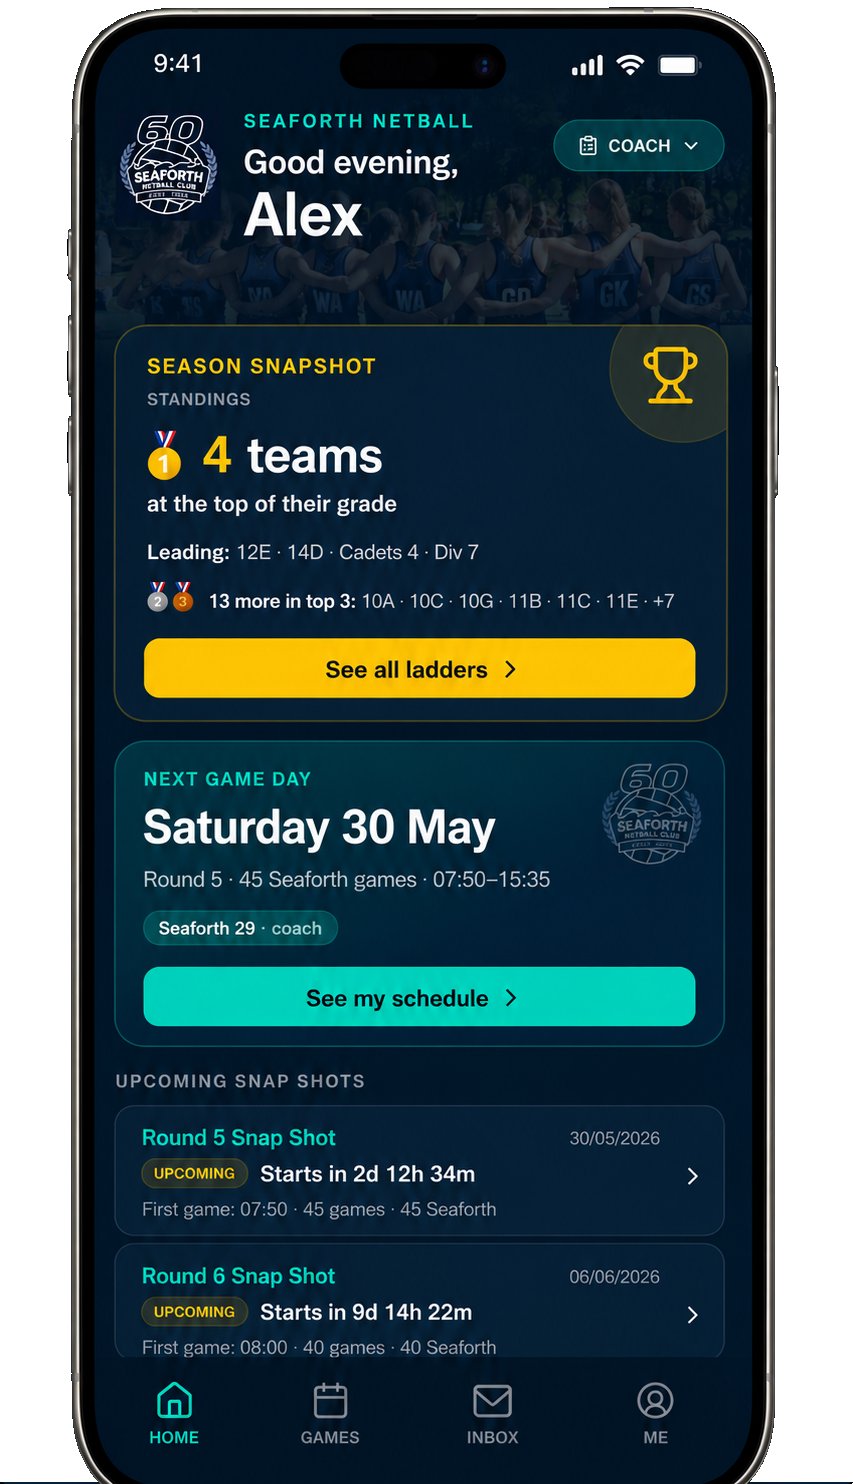
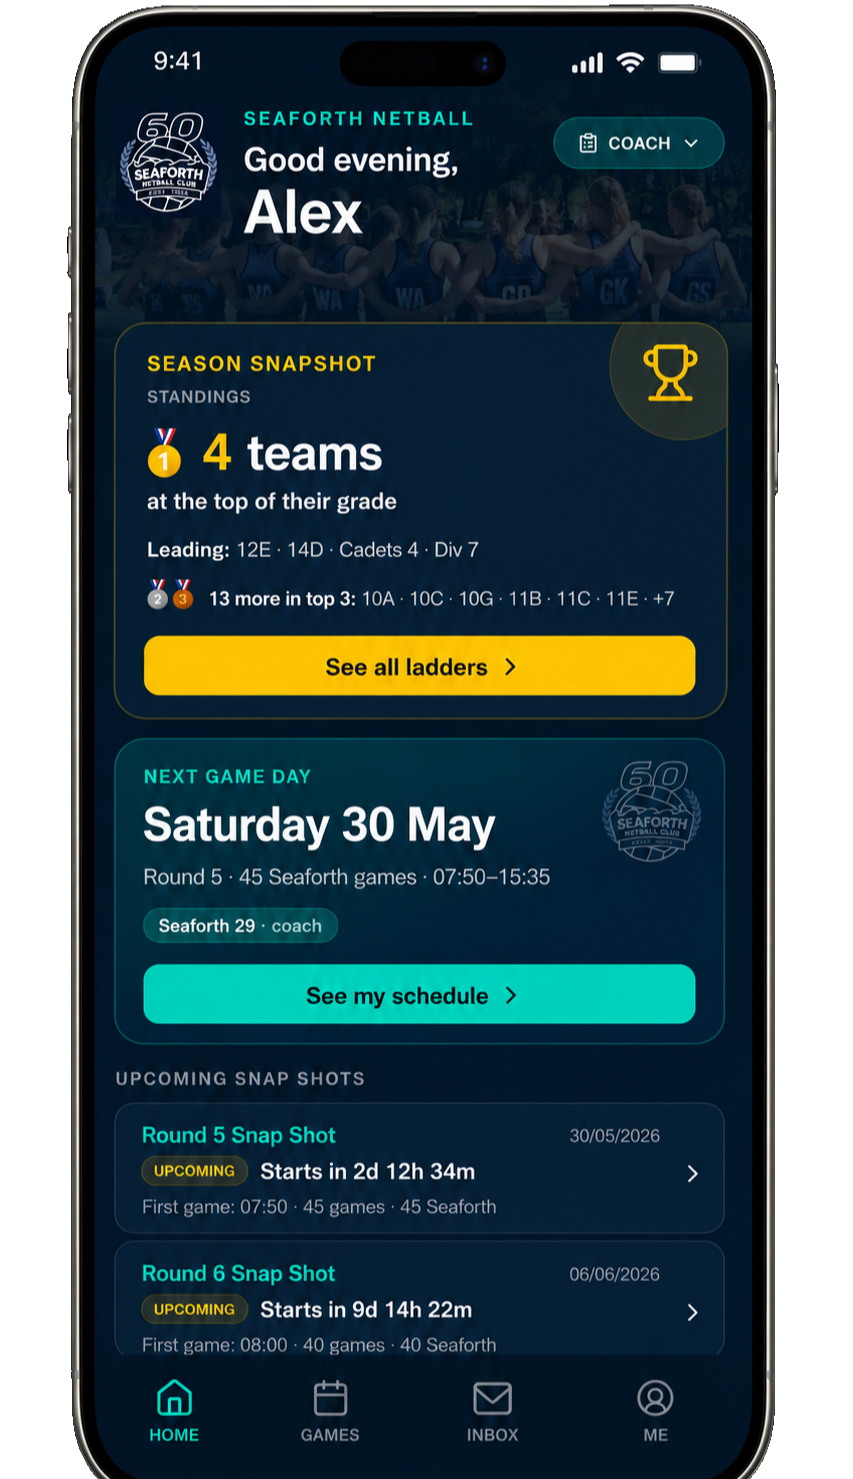
Action website feedback from SP_Website_12.08.2026 deck
- Align nav logo with hero headline (shared 1180px container)
- Rename About nav item to Apps and point it at the mobile apps section
- Make each section fill one screen height (min-h 100vh minus nav)
- Widen hero photo panel and reduce crop so the image reads less zoomed
- Features table: highlight row follows the cursor instead of static
- Crop baked-in hairline off the bottom of app-club-white.png
- Contact: new intro copy, teams-count field label, teal Submit button
- Footer links now point at real sections instead of dead anchors
- Contact email relabels the count as Teams

diff --git a/app/page.tsx b/app/page.tsx
@@ -39,7 +39,7 @@ function Wordmark({ height = 44 }: { height?: number }) {
 const navLinks = [
   ["Features", "#features"],
   ["Solutions", "#solutions"],
-  ["About", "#about"],
+  ["Apps", "#apps"],
   ["Contact", "#contact"],
 ]
 
@@ -74,10 +74,10 @@ function Navbar() {
 function Hero() {
   return (
     <section id="top" className="relative overflow-hidden bg-[#0e1a30] pt-[72px]">
-      <div className="grid items-stretch lg:min-h-[640px] lg:grid-cols-[46%_54%]">
-        {/* copy */}
-        <div className="flex w-full max-w-[640px] flex-col justify-center justify-self-end px-7 py-16 lg:py-[70px]">
-          <div className="lg:pl-7">
+      <div className="relative z-10 mx-auto flex max-w-[1180px] items-center px-7 py-16 lg:min-h-[calc(100vh-72px)] lg:py-[70px]">
+        {/* copy — shares the nav's container so the headline lines up with the logo */}
+        <div className="lg:max-w-[560px]">
+          <div>
             <h1
               className="font-bold text-white"
               style={{
@@ -108,21 +108,21 @@ function Hero() {
             </div>
           </div>
         </div>
+      </div>
 
-        {/* photo — angled left edge */}
-        <div
-          className="relative min-h-[360px] lg:min-h-0"
-          style={{ clipPath: "polygon(14% 0, 100% 0, 100% 100%, 0 100%)" }}
-        >
-          <Image
-            src="/hero-netball.png"
-            alt="Junior netball game on an indoor court"
-            fill
-            priority
-            sizes="(max-width: 1024px) 100vw, 54vw"
-            className="object-cover"
-          />
-        </div>
+      {/* photo — angled left edge, pinned right on desktop */}
+      <div
+        className="relative min-h-[360px] lg:absolute lg:bottom-0 lg:right-0 lg:top-[72px] lg:min-h-0 lg:w-[56%]"
+        style={{ clipPath: "polygon(14% 0, 100% 0, 100% 100%, 0 100%)" }}
+      >
+        <Image
+          src="/hero-netball.png"
+          alt="Junior netball game on an indoor court"
+          fill
+          priority
+          sizes="(max-width: 1024px) 100vw, 56vw"
+          className="object-cover"
+        />
       </div>
     </section>
   )
@@ -131,8 +131,6 @@ function Hero() {
 /* ──────────────────────────────────────────────────────────
    Features / ROI table
    ────────────────────────────────────────────────────────── */
-const HIGHLIGHT = "Player Grading"
-
 const roster = [
   {
     task: "Umpire & ref rostering",
@@ -182,7 +180,10 @@ const COLS = "grid-cols-[1.1fr_1.35fr_1.55fr_1fr]"
 
 function FeaturesTable() {
   return (
-    <section id="features" className="relative overflow-hidden bg-white px-7 py-[92px]">
+    <section
+      id="features"
+      className="relative flex min-h-[calc(100vh-72px)] scroll-mt-[72px] items-center overflow-hidden bg-white px-7 py-16"
+    >
       {/* decorative teal blob */}
       <div
         className="pointer-events-none absolute -right-[120px] -top-[140px] h-[620px] w-[620px] rounded-full"
@@ -192,7 +193,7 @@ function FeaturesTable() {
         }}
         aria-hidden
       />
-      <div className="relative mx-auto max-w-[1120px]">
+      <div className="relative mx-auto w-full max-w-[1120px]">
         <p className="text-[13px] font-semibold uppercase tracking-[0.14em] text-[#10b3a3]">
           Features
         </p>
@@ -221,33 +222,26 @@ function FeaturesTable() {
                 </span>
               ))}
             </div>
-            {/* rows */}
-            {roster.map((r) => {
-              const highlighted = r.task === HIGHLIGHT
-              return (
-                <div
-                  key={r.task}
-                  className={`grid ${COLS} items-center gap-5 border-b border-[#16233d]/[0.06] py-[19px] pl-6 pr-7`}
-                  style={{
-                    background: highlighted ? "#eaf7f3" : "transparent",
-                    borderLeft: `4px solid ${highlighted ? TEAL : "transparent"}`,
-                  }}
-                >
-                  <span className="text-[15.5px] font-semibold text-[#16233d]">{r.task}</span>
-                  <span className="text-[14px] leading-[1.45] text-[#8a95a3]">{r.old}</span>
-                  <span className="flex items-baseline gap-[9px] text-[14px] leading-[1.45] text-[#3d4a5c]">
-                    <Check className="h-3.5 w-3.5 shrink-0 translate-y-0.5 text-[#10b3a3]" strokeWidth={3} />
-                    <span>{r.now}</span>
-                  </span>
-                  <span className="text-right text-[14px] font-semibold text-[#10b3a3]">{r.save}</span>
-                </div>
-              )
-            })}
+            {/* rows — highlight follows the cursor */}
+            {roster.map((r) => (
+              <div
+                key={r.task}
+                className={`grid ${COLS} items-center gap-5 border-b border-l-4 border-[#16233d]/[0.06] border-l-transparent py-3 pl-6 pr-7 transition-colors duration-150 hover:border-l-[#10b3a3] hover:bg-[#eaf7f3]`}
+              >
+                <span className="text-[15.5px] font-semibold text-[#16233d]">{r.task}</span>
+                <span className="text-[14px] leading-[1.45] text-[#8a95a3]">{r.old}</span>
+                <span className="flex items-baseline gap-[9px] text-[14px] leading-[1.45] text-[#3d4a5c]">
+                  <Check className="h-3.5 w-3.5 shrink-0 translate-y-0.5 text-[#10b3a3]" strokeWidth={3} />
+                  <span>{r.now}</span>
+                </span>
+                <span className="text-right text-[14px] font-semibold text-[#10b3a3]">{r.save}</span>
+              </div>
+            ))}
           </div>
         </div>
 
         {/* add-it-up band */}
-        <div className="mt-[26px] flex flex-wrap items-center justify-between gap-6 rounded-xl bg-[#16233d] px-8 py-[26px]">
+        <div className="mt-5 flex flex-wrap items-center justify-between gap-6 rounded-xl bg-[#16233d] px-8 py-5">
           <p
             className="font-semibold text-white"
             style={{ fontSize: "clamp(18px,2vw,22px)", letterSpacing: "-0.01em" }}
@@ -315,8 +309,11 @@ const sports = [
 
 function Solutions() {
   return (
-    <section id="solutions" className="border-t border-white/[0.06] bg-[#121f38] px-7 py-[92px]">
-      <div className="mx-auto max-w-[1120px]">
+    <section
+      id="solutions"
+      className="flex min-h-[calc(100vh-72px)] scroll-mt-[72px] items-center border-t border-white/[0.06] bg-[#121f38] px-7 py-16"
+    >
+      <div className="mx-auto w-full max-w-[1120px]">
         <p className="text-[13px] font-semibold uppercase tracking-[0.14em] text-[#2dd4bf]">
           Solutions
         </p>
@@ -370,15 +367,18 @@ function Solutions() {
    About / Mobile apps — white, centered
    ────────────────────────────────────────────────────────── */
 const appScreens = [
-  { src: "/app-club-white.png", alt: "Club dashboard app screen", raised: false },
-  { src: "/app-lineup-white.png", alt: "Coach line-up builder app screen", raised: true },
-  { src: "/app-player-white.png", alt: "Player profile app screen", raised: false },
+  { src: "/app-club-white.png", alt: "Club dashboard app screen", height: 1479, raised: false },
+  { src: "/app-lineup-white.png", alt: "Coach line-up builder app screen", height: 1484, raised: true },
+  { src: "/app-player-white.png", alt: "Player profile app screen", height: 1484, raised: false },
 ]
 
 function MobileApps() {
   return (
-    <section id="about" className="overflow-hidden bg-white px-7 pb-[70px] pt-[92px]">
-      <div className="mx-auto max-w-[1120px] text-center">
+    <section
+      id="apps"
+      className="flex min-h-[calc(100vh-72px)] scroll-mt-[72px] items-center overflow-hidden bg-white px-7 py-16"
+    >
+      <div className="mx-auto w-full max-w-[1120px] text-center">
         <p className="text-[13px] font-semibold uppercase tracking-[0.14em] text-[#10b3a3]">
           Mobile apps
         </p>
@@ -394,14 +394,14 @@ function MobileApps() {
           on top of game day.
         </p>
 
-        <div className="mx-auto mt-[52px] grid max-w-[880px] grid-cols-3 items-end gap-6">
+        <div className="mx-auto mt-10 grid max-w-[820px] grid-cols-3 items-end gap-6">
           {appScreens.map((s) => (
             <div key={s.src} className={s.raised ? "mb-8" : ""}>
               <Image
                 src={s.src}
                 alt={s.alt}
                 width={853}
-                height={1484}
+                height={s.height}
                 sizes="(max-width: 880px) 33vw, 280px"
                 className="block h-auto w-full"
               />
@@ -418,8 +418,11 @@ function MobileApps() {
    ────────────────────────────────────────────────────────── */
 function Contact() {
   return (
-    <section id="contact" className="border-t border-white/[0.06] bg-[#121f38] px-7 py-[92px]">
-      <div className="mx-auto grid max-w-[1120px] items-start gap-12 lg:grid-cols-2 lg:gap-16">
+    <section
+      id="contact"
+      className="flex min-h-[calc(100vh-72px)] scroll-mt-[72px] items-center border-t border-white/[0.06] bg-[#121f38] px-7 py-16"
+    >
+      <div className="mx-auto grid w-full max-w-[1120px] items-start gap-12 lg:grid-cols-2 lg:gap-16">
         <div>
           <p className="text-[13px] font-semibold uppercase tracking-[0.14em] text-[#2dd4bf]">
             Contact
@@ -431,8 +434,7 @@ function Contact() {
             Tell us about your club
           </h2>
           <p className="mt-3.5 max-w-[420px] text-[16px] leading-[1.55] text-[#a5b3c7]">
-            We&apos;ll get back to you within a day with pricing for your club and a time to show you
-            around — no hard sell.
+            Submit your details and we&apos;ll get in touch to discuss further or arrange a demo.
           </p>
           <div className="mt-7 flex flex-col gap-3">
             <p className="text-[15.5px] text-[#e6edf7]">Sydney, Australia</p>
@@ -461,18 +463,30 @@ function Contact() {
 /* ──────────────────────────────────────────────────────────
    Footer — deep navy, link columns
    ────────────────────────────────────────────────────────── */
-const footCols = [
-  { head: "Product", links: ["Websites", "Mobile apps", "Fixtures & ladders", "Umpire management"] },
-  { head: "Platform", links: ["Teams & players", "Communications", "Reports", "Payments"] },
-  { head: "Company", links: ["About", "Pricing", "Contact"] },
-  { head: "Support", links: ["Help centre", "Onboarding", "Status", "Privacy"] },
+const footCols: { head: string; links: [string, string][] }[] = [
+  {
+    head: "Explore",
+    links: [
+      ["Features", "#features"],
+      ["Solutions", "#solutions"],
+      ["Apps", "#apps"],
+      ["Contact", "#contact"],
+    ],
+  },
+  {
+    head: "Get in touch",
+    links: [
+      ["rowan@sidelinepro.com.au", "mailto:rowan@sidelinepro.com.au"],
+      ["Book a demo", "#contact"],
+    ],
+  },
 ]
 
 function Footer() {
   return (
     <footer className="bg-[#0a1426] px-7 pb-[26px] pt-12">
       <div className="mx-auto max-w-[1120px]">
-        <div className="grid gap-6 border-b border-white/[0.12] pb-8 sm:grid-cols-2 lg:grid-cols-[1.6fr_1fr_1fr_1fr_1fr]">
+        <div className="grid gap-6 border-b border-white/[0.12] pb-8 sm:grid-cols-2 lg:grid-cols-[1.6fr_1fr_1fr]">
           <div>
             <Wordmark height={36} />
             <p className="mt-3 max-w-[230px] text-[13px] leading-[1.55] text-[#8fa0b8]">
@@ -482,13 +496,13 @@ function Footer() {
           {footCols.map((c) => (
             <div key={c.head}>
               <p className="mb-2.5 text-[12.5px] font-semibold text-white">{c.head}</p>
-              {c.links.map((l) => (
+              {c.links.map(([label, href]) => (
                 <a
-                  key={l}
-                  href="#contact"
+                  key={label}
+                  href={href}
                   className="mb-[7px] block text-[12.5px] text-[#8fa0b8] transition-colors hover:text-[#2dd4bf]"
                 >
-                  {l}
+                  {label}
                 </a>
               ))}
             </div>

diff --git a/components/contact-form.tsx b/components/contact-form.tsx
@@ -63,7 +63,7 @@ export function ContactForm() {
             id="name"
             name="name"
             required
-            className="w-full rounded-[10px] border border-black/15 bg-white px-4 py-3 text-[#1d1d1f] placeholder-[#86868b] transition-colors focus:border-[#BD8A2C] focus:outline-none focus:ring-1 focus:ring-[#BD8A2C]/30"
+            className="w-full rounded-[10px] border border-black/15 bg-white px-4 py-3 text-[#1d1d1f] placeholder-[#86868b] transition-colors focus:border-[#10b3a3] focus:outline-none focus:ring-1 focus:ring-[#10b3a3]/30"
             placeholder="Your name"
           />
         </div>
@@ -76,7 +76,7 @@ export function ContactForm() {
             id="club"
             name="club"
             required
-            className="w-full rounded-[10px] border border-black/15 bg-white px-4 py-3 text-[#1d1d1f] placeholder-[#86868b] transition-colors focus:border-[#BD8A2C] focus:outline-none focus:ring-1 focus:ring-[#BD8A2C]/30"
+            className="w-full rounded-[10px] border border-black/15 bg-white px-4 py-3 text-[#1d1d1f] placeholder-[#86868b] transition-colors focus:border-[#10b3a3] focus:outline-none focus:ring-1 focus:ring-[#10b3a3]/30"
             placeholder="Your club"
           />
         </div>
@@ -91,7 +91,7 @@ export function ContactForm() {
             id="email"
             name="email"
             required
-            className="w-full rounded-[10px] border border-black/15 bg-white px-4 py-3 text-[#1d1d1f] placeholder-[#86868b] transition-colors focus:border-[#BD8A2C] focus:outline-none focus:ring-1 focus:ring-[#BD8A2C]/30"
+            className="w-full rounded-[10px] border border-black/15 bg-white px-4 py-3 text-[#1d1d1f] placeholder-[#86868b] transition-colors focus:border-[#10b3a3] focus:outline-none focus:ring-1 focus:ring-[#10b3a3]/30"
             placeholder="you@club.com.au"
           />
         </div>
@@ -103,21 +103,21 @@ export function ContactForm() {
             type="tel"
             id="phone"
             name="phone"
-            className="w-full rounded-[10px] border border-black/15 bg-white px-4 py-3 text-[#1d1d1f] placeholder-[#86868b] transition-colors focus:border-[#BD8A2C] focus:outline-none focus:ring-1 focus:ring-[#BD8A2C]/30"
+            className="w-full rounded-[10px] border border-black/15 bg-white px-4 py-3 text-[#1d1d1f] placeholder-[#86868b] transition-colors focus:border-[#10b3a3] focus:outline-none focus:ring-1 focus:ring-[#10b3a3]/30"
             placeholder="04XX XXX XXX"
           />
         </div>
       </div>
       <div>
         <label htmlFor="players" className="mb-2 block text-sm font-medium text-[#1d1d1f]">
-          Approx. number of registered players
+          Number of teams in your club
         </label>
         <input
           type="text"
           id="players"
           name="players"
-          className="w-full rounded-[10px] border border-black/15 bg-white px-4 py-3 text-[#1d1d1f] placeholder-[#86868b] transition-colors focus:border-[#BD8A2C] focus:outline-none focus:ring-1 focus:ring-[#BD8A2C]/30"
-          placeholder="e.g. 250"
+          className="w-full rounded-[10px] border border-black/15 bg-white px-4 py-3 text-[#1d1d1f] placeholder-[#86868b] transition-colors focus:border-[#10b3a3] focus:outline-none focus:ring-1 focus:ring-[#10b3a3]/30"
+          placeholder="e.g. 20"
         />
       </div>
       <div>
@@ -128,16 +128,16 @@ export function ContactForm() {
           id="message"
           name="message"
           rows={4}
-          className="w-full resize-none rounded-[10px] border border-black/15 bg-white px-4 py-3 text-[#1d1d1f] placeholder-[#86868b] transition-colors focus:border-[#BD8A2C] focus:outline-none focus:ring-1 focus:ring-[#BD8A2C]/30"
+          className="w-full resize-none rounded-[10px] border border-black/15 bg-white px-4 py-3 text-[#1d1d1f] placeholder-[#86868b] transition-colors focus:border-[#10b3a3] focus:outline-none focus:ring-1 focus:ring-[#10b3a3]/30"
           placeholder="Tell us about your club's biggest challenges..."
         />
       </div>
       <button
         type="submit"
         disabled={isSubmitting}
-        className="mt-2 w-full rounded-full bg-[#BD8A2C] px-6 py-3 font-semibold text-white transition-opacity hover:opacity-90 disabled:opacity-50"
+        className="mt-2 w-full rounded-full bg-[#10b3a3] px-6 py-3 font-semibold text-white transition-colors hover:bg-[#0d9a8c] disabled:opacity-50"
       >
-        {isSubmitting ? "Sending..." : "Get my club's pricing"}
+        {isSubmitting ? "Sending..." : "Submit"}
       </button>
     </form>
   )

diff --git a/app/api/contact/route.ts b/app/api/contact/route.ts
@@ -65,7 +65,7 @@ async function notifyTeam(lead: Lead) {
     `Club:    ${lead.club ?? "—"}`,
     `Email:   ${lead.email ?? "—"}`,
     `Phone:   ${lead.phone ?? "—"}`,
-    `Players: ${lead.players ?? "—"}`,
+    `Teams:   ${lead.players ?? "—"}`,
     ``,
     `Message:`,
     lead.message ?? "—",
